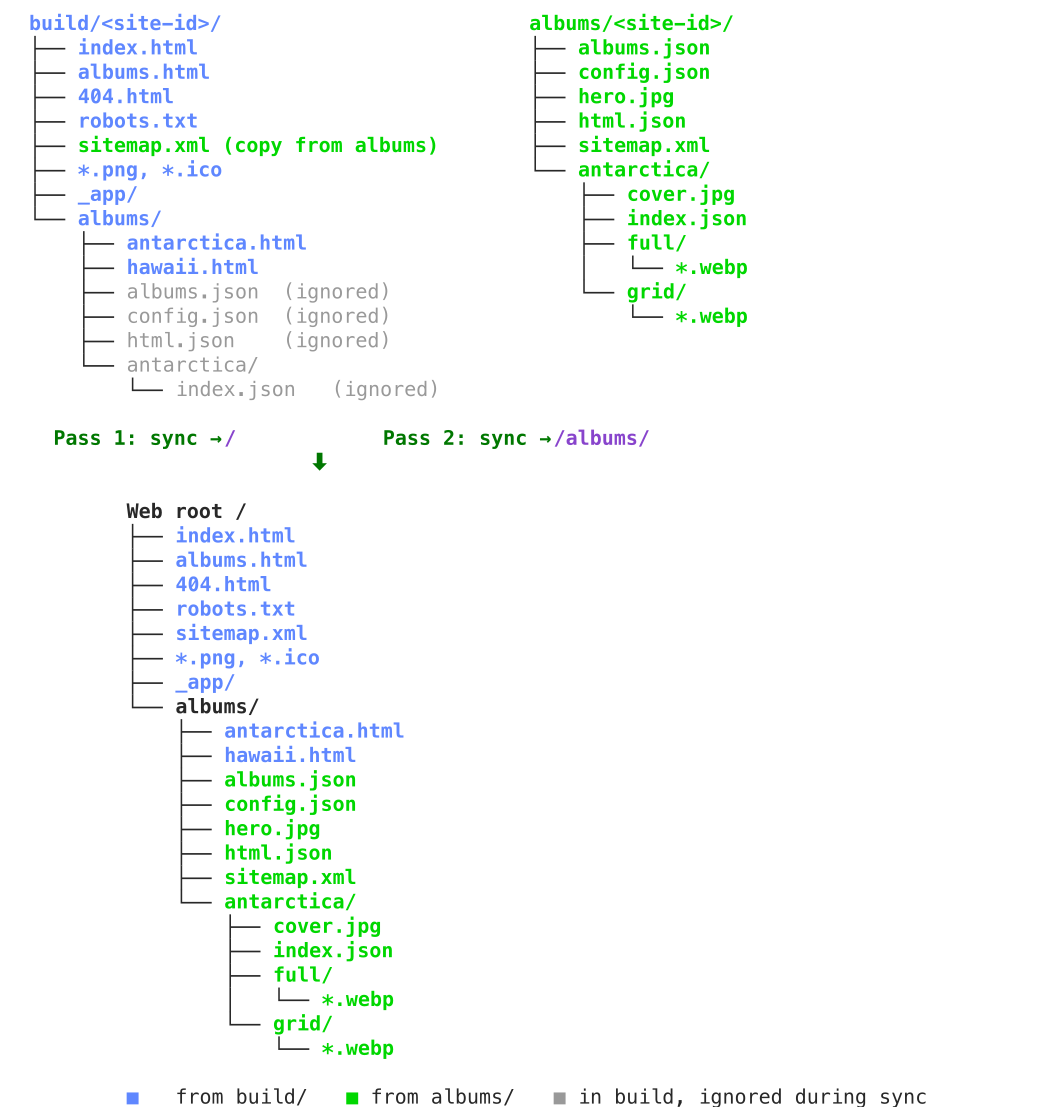
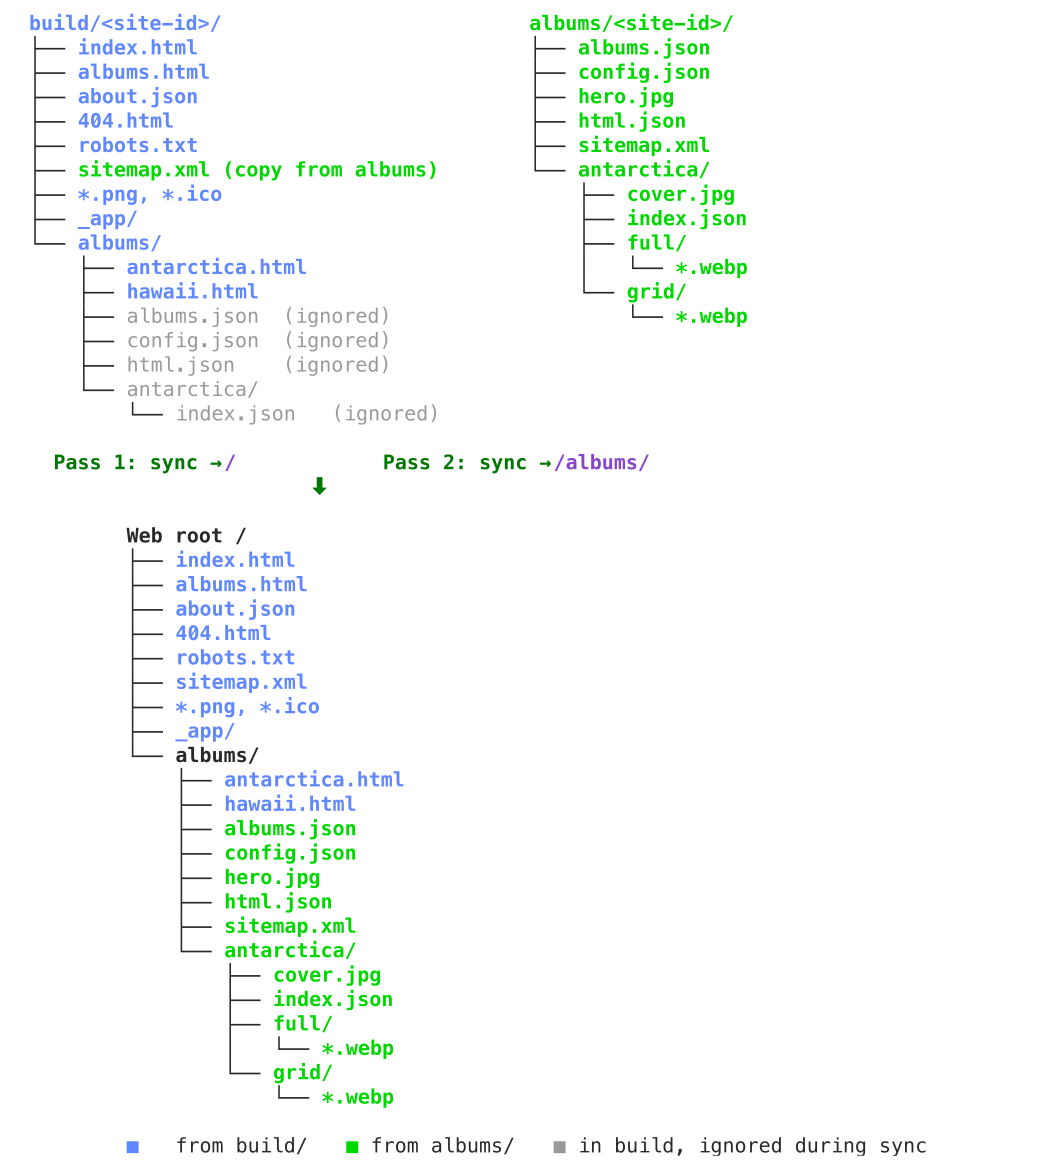
Static site deploy validation (#46)
+ Add "about.json" showing version info seen in About dialog
+ Fetch and display in test-photos-server.sh.
+ Add list of `ddphotos` commands at start of docs
+ Add --verify to deploy-sample-sites.sh
* fix pull always

diff --git a/web/src/routes/about.json/+server.ts b/web/src/routes/about.json/+server.ts
@@ -1,0 +1,18 @@
+export const prerender = true;
+
+import type { RequestHandler } from '@sveltejs/kit';
+
+export const GET: RequestHandler = async () => {
+	const data = {
+		builtOn: (import.meta.env.VITE_BUILD_TIME as string) ?? '',
+		gitDescribe: (import.meta.env.VITE_GIT_DESCRIBE as string) ?? '',
+		gitBranch: (import.meta.env.VITE_GIT_BRANCH as string) ?? '',
+		dockerImage: (import.meta.env.VITE_DOCKER_IMAGE as string) ?? '',
+		gitRepoSlug: (import.meta.env.VITE_GIT_REPO_SLUG as string) ?? '',
+		gitRepoUrl: (import.meta.env.VITE_GIT_REPO_URL as string) ?? ''
+	};
+
+	return new Response(JSON.stringify(data, null, 2), {
+		headers: { 'Content-Type': 'application/json' }
+	});
+};

diff --git a/bin/gen-deploy-tree.py b/bin/gen-deploy-tree.py
@@ -60,6 +60,7 @@ def build_tree() -> Tree:
     root = Tree(t("build/<site-id>/", BUILD))
     root.add(t("index.html", BUILD))
     root.add(t("albums.html", BUILD))
+    root.add(t("about.json", BUILD))
     root.add(t("404.html", BUILD))
     root.add(t("robots.txt", BUILD))
     root.add(t("sitemap.xml (copy from albums)", ALBUMS))
@@ -99,6 +100,7 @@ def result_tree() -> Tree:
     root = Tree(t("Web root /", DIR))
     root.add(t("index.html", BUILD))
     root.add(t("albums.html", BUILD))
+    root.add(t("about.json", BUILD))
     root.add(t("404.html", BUILD))
     root.add(t("robots.txt", BUILD))
     root.add(t("sitemap.xml", BUILD))

diff --git a/docs/DOCKER.md b/docs/DOCKER.md
@@ -94,6 +94,20 @@ ddphotos --dir ~/work/ddphotos --config-dir ~/work/ddphotos/sample/config run
 
 ## Commands
 
+| Command                         | Description                                                       |
+|---------------------------------|-------------------------------------------------------------------|
+| [`init`](#init)                 | Create config scaffold and install the `ddphotos` wrapper script. |
+| [`photogen`](#photogen)         | Resize photos to WebP and generate JSON index files.              |
+| [`run`](#run)                   | Start a Vite dev server at http://localhost:5173.                 |
+| [`build`](#build)               | Build the static site into `build/`.                              |
+| [`serve`](#serve)               | Serve the built site via Apache at http://localhost:8000.         |
+| [`export`](#export)             | Export the built site to `export/<site-id>/` for static hosting.  |
+| [`deploy`](#deploy)             | Sync the built site to a remote host via rsync or S3.             |
+| [`decode`](#decode)             | Decrypt an `.enc.json` file and print the plaintext JSON.         |
+| [`search-cover`](#search-cover) | Find the original filename for a photo given its URL.             |
+| [`upgrade`](#upgrade)           | Update the local `ddphotos` wrapper script to match the image.    |
+| [`version`](#version)           | Print script location, image tag, and config paths.               |
+
 ### `init`
 
 Creates the config scaffold and installs the `ddphotos` wrapper script.
@@ -123,59 +137,6 @@ ddphotos photogen -- -hero-only
 ```
 
 See [CLI Flags](PHOTOGEN.md#cli-flags) for all flags.
-
-### `decode`
-
-Decrypts an `.enc.json` file produced by `photogen` and prints the plaintext JSON.
-Useful for inspecting what an encrypted album or site index contains — for example,
-to find a photo's original filename from its UUID so you can set it as a cover.
-
-```bash
-ddphotos decode albums/my-photos/secret/index.enc.json
-ddphotos decode albums/my-photos/albums.enc.json
-```
-
-The passwords file path is embedded in every `.enc.json` by `photogen`, so no extra
-flags are needed in normal use. If the embedded path is unreachable, pass it explicitly:
-
-```bash
-ddphotos decode --passwords config/passwords.yaml albums/my-photos/secret/index.enc.json
-```
-
-Paths are resolved relative to the `--dir` directory (default: the `ddphotos` script
-location). Files outside that directory are mounted automatically.
-
-### `search-cover`
-
-Finds the original filename for a photo given its URL — useful for setting a cover image
-in `albums.yaml`. Pass any photo URL from your site (full-size or grid thumbnail):
-
-```bash
-ddphotos search-cover https://my-site.example.com/albums/banff-2002/full/0918bedf-2f7d-dedc-9e89-b99ec5bb2752.webp
-```
-
-Output:
-
-```
-Searching...
-  Album:  banff-2002
-  Index:  /ddphotos/albums/my-photos/banff-2002/index.json
-  Source: full/0918bedf-2f7d-dedc-9e89-b99ec5bb2752.webp
-
-Found:
-  id:         0918bedf-2f7d-dedc-9e89-b99ec5bb2752
-  sourcePath: /photos/banff-2002/IMG_1234.jpg
-  fileName:   IMG_1234.jpg
-
-Use for cover:
-  cover: IMG_1234.jpg
-```
-
-Use the `--site-id` flag to search a different site:
-
-```bash
-ddphotos --site-id other-site search-cover <url>
-```
 
 ### `run`
 
@@ -256,6 +217,59 @@ ddphotos deploy
 ```
 
 See [Deployment](DEPLOY.md) for full setup details.
+
+### `decode`
+
+Decrypts an `.enc.json` file produced by `photogen` and prints the plaintext JSON.
+Useful for inspecting what an encrypted album or site index contains — for example,
+to find a photo's original filename from its UUID so you can set it as a cover.
+
+```bash
+ddphotos decode albums/my-photos/secret/index.enc.json
+ddphotos decode albums/my-photos/albums.enc.json
+```
+
+The passwords file path is embedded in every `.enc.json` by `photogen`, so no extra
+flags are needed in normal use. If the embedded path is unreachable, pass it explicitly:
+
+```bash
+ddphotos decode --passwords config/passwords.yaml albums/my-photos/secret/index.enc.json
+```
+
+Paths are resolved relative to the `--dir` directory (default: the `ddphotos` script
+location). Files outside that directory are mounted automatically.
+
+### `search-cover`
+
+Finds the original filename for a photo given its URL — useful for setting a cover image
+in `albums.yaml`. Pass any photo URL from your site (full-size or grid thumbnail):
+
+```bash
+ddphotos search-cover https://my-site.example.com/albums/banff-2002/full/0918bedf-2f7d-dedc-9e89-b99ec5bb2752.webp
+```
+
+Output:
+
+```
+Searching...
+  Album:  banff-2002
+  Index:  /ddphotos/albums/my-photos/banff-2002/index.json
+  Source: full/0918bedf-2f7d-dedc-9e89-b99ec5bb2752.webp
+
+Found:
+  id:         0918bedf-2f7d-dedc-9e89-b99ec5bb2752
+  sourcePath: /photos/banff-2002/IMG_1234.jpg
+  fileName:   IMG_1234.jpg
+
+Use for cover:
+  cover: IMG_1234.jpg
+```
+
+Use the `--site-id` flag to search a different site:
+
+```bash
+ddphotos --site-id other-site search-cover <url>
+```
 
 ### `upgrade`
 